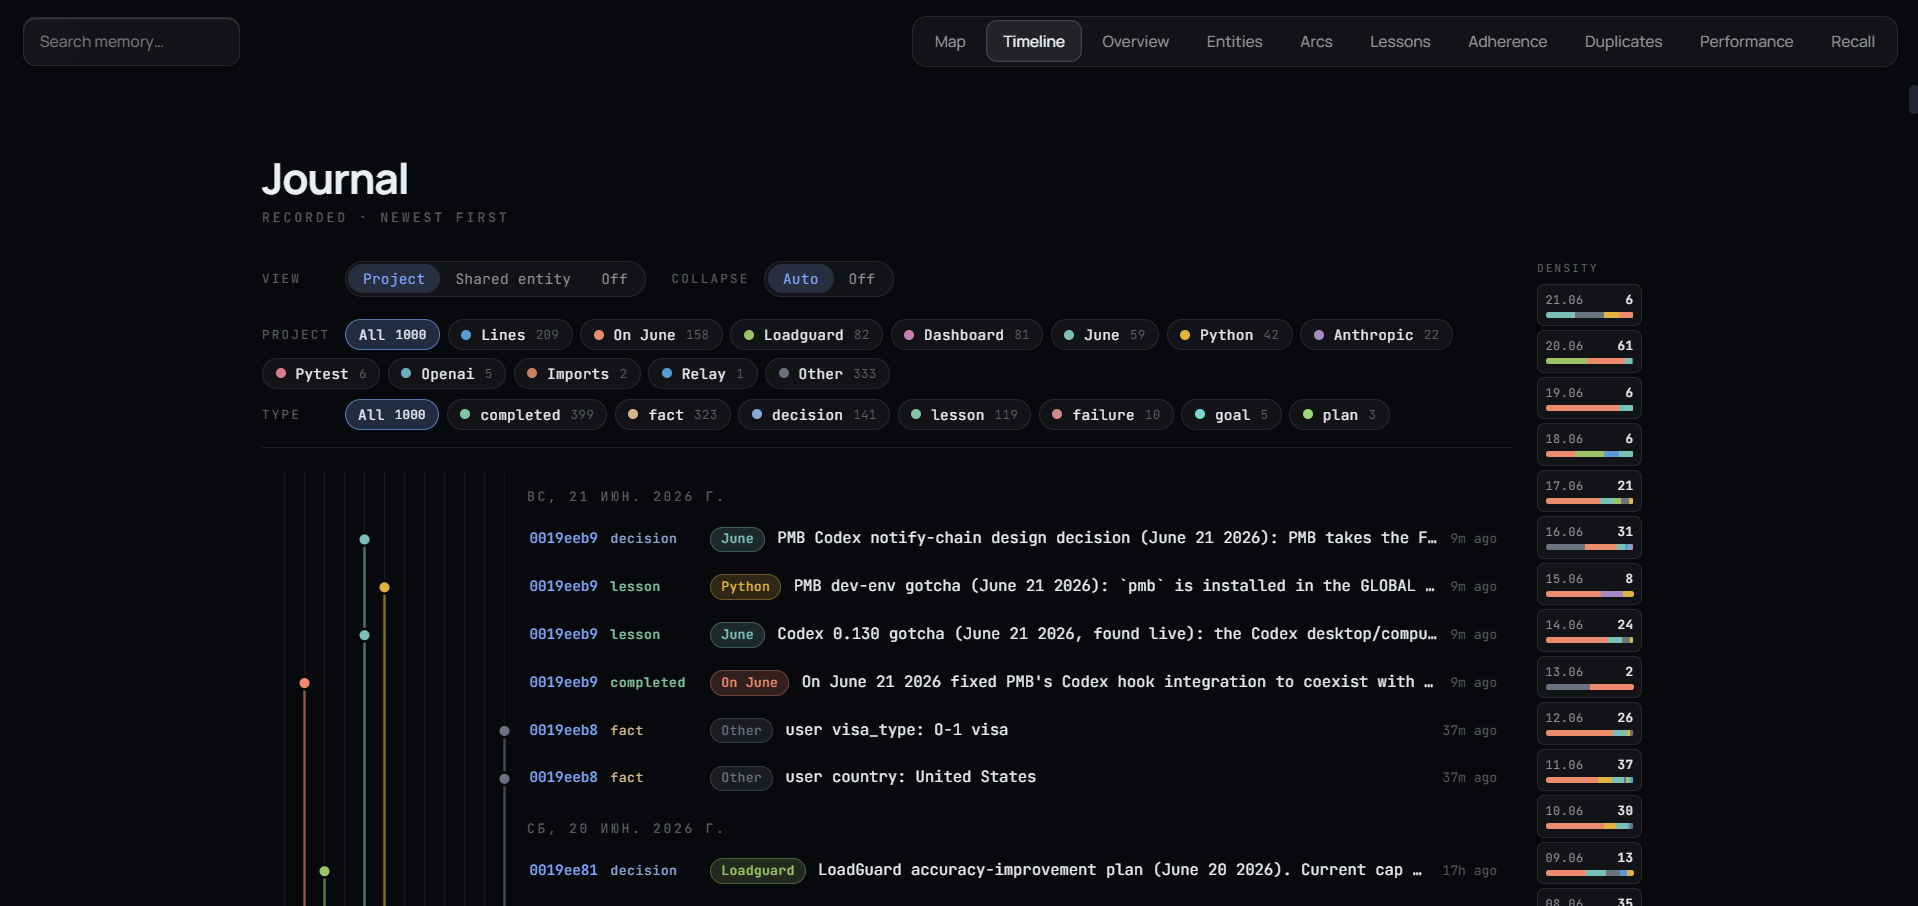
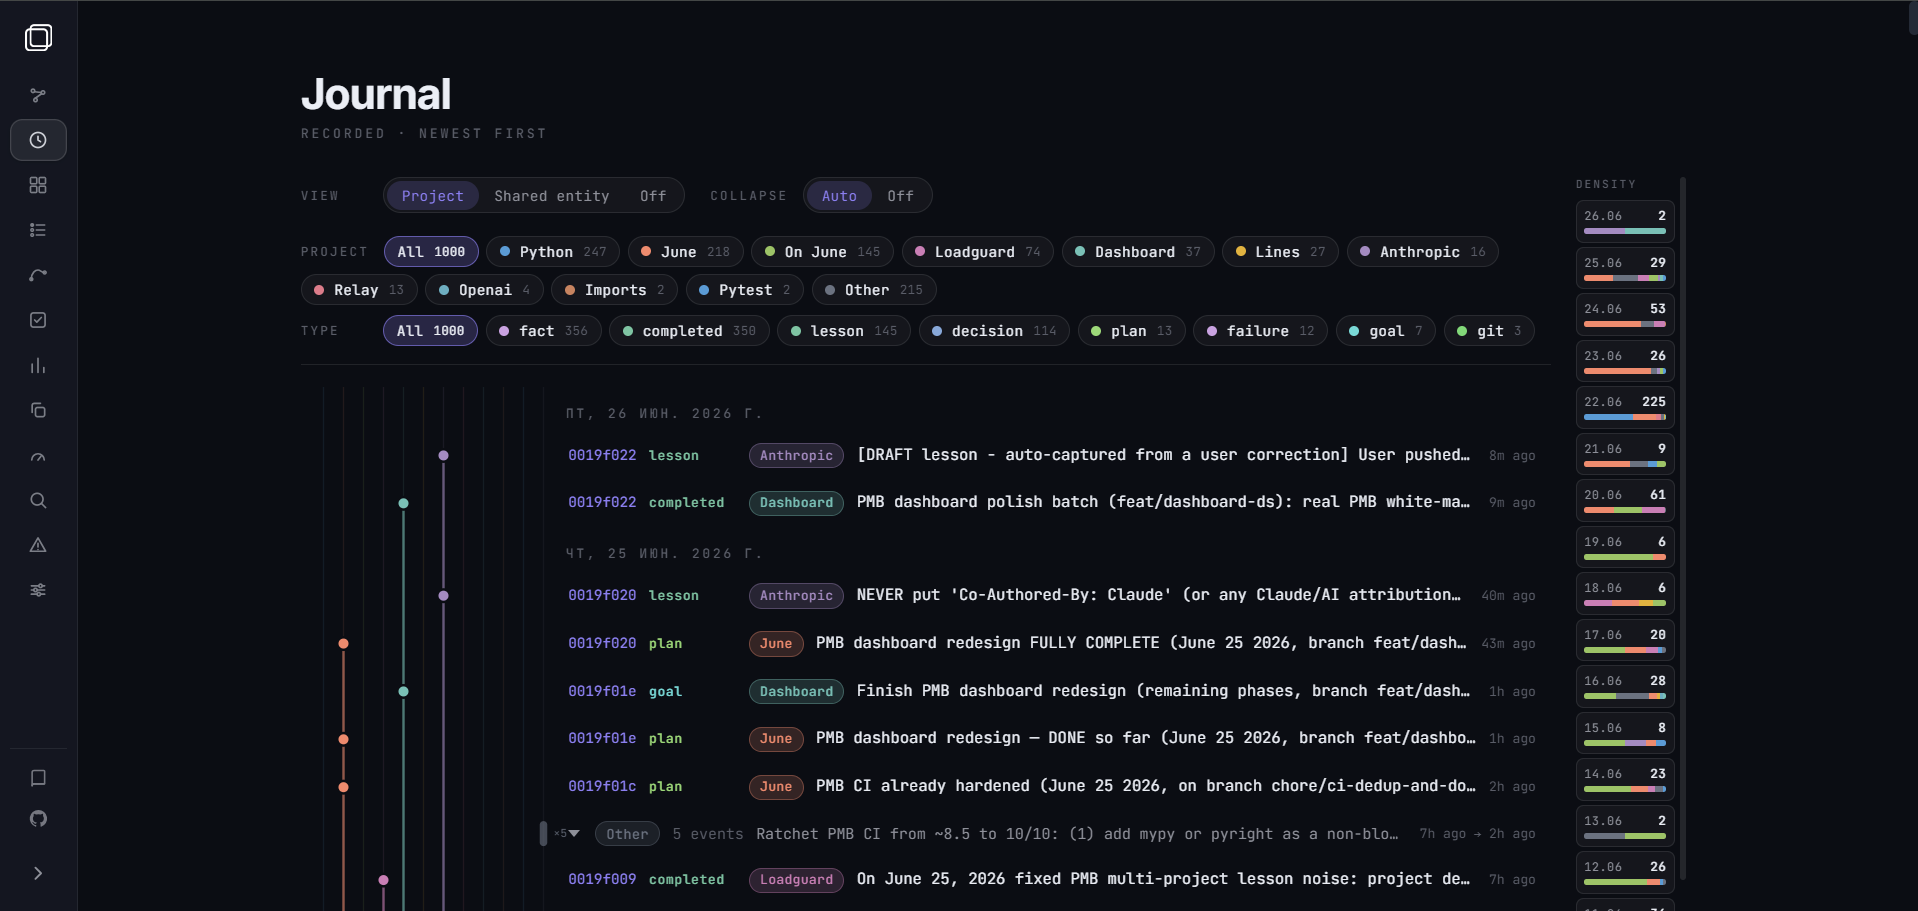
docs(readme): refresh dashboard screenshots (map + timeline), drop the 7MB hero GIF

diff --git a/README.md b/README.md
@@ -18,7 +18,7 @@
 [![MCP](https://img.shields.io/badge/MCP-native-purple.svg)](https://modelcontextprotocol.io)
 [![GitHub MCP Registry](https://img.shields.io/badge/GitHub_MCP_Registry-listed-8B7FF0?logo=modelcontextprotocol&logoColor=white)](https://github.com/mcp/oleksiijko/pmb-ai)
 
-<img src="https://raw.githubusercontent.com/oleksiijko/pmb/main/docs/assets/dashboard-map.gif" width="720" alt="PMB - your project's memory as a live graph">
+<img src="https://raw.githubusercontent.com/oleksiijko/pmb/main/docs/assets/dashboard-map.png" width="760" alt="PMB dashboard - your project's memory as a live entity graph">
 
 *Local-first memory, visualized. 3,800+ entities and 41,000+ connections, captured automatically as you work.*
 
